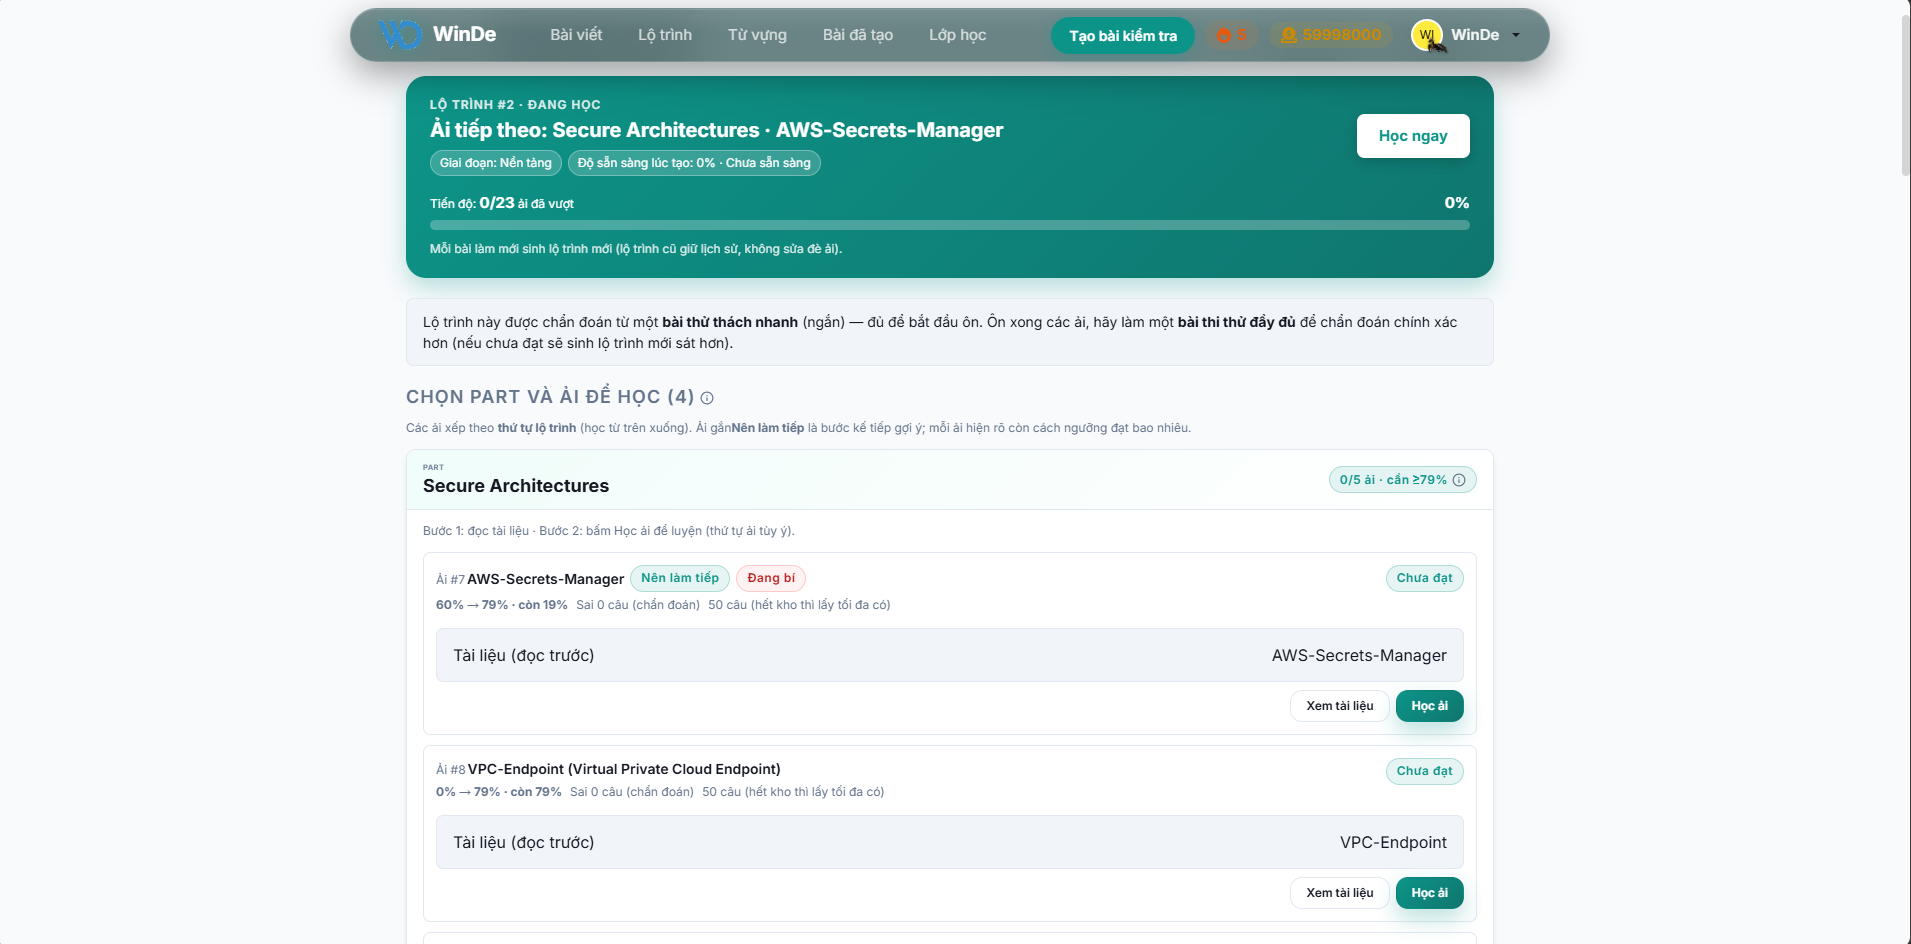
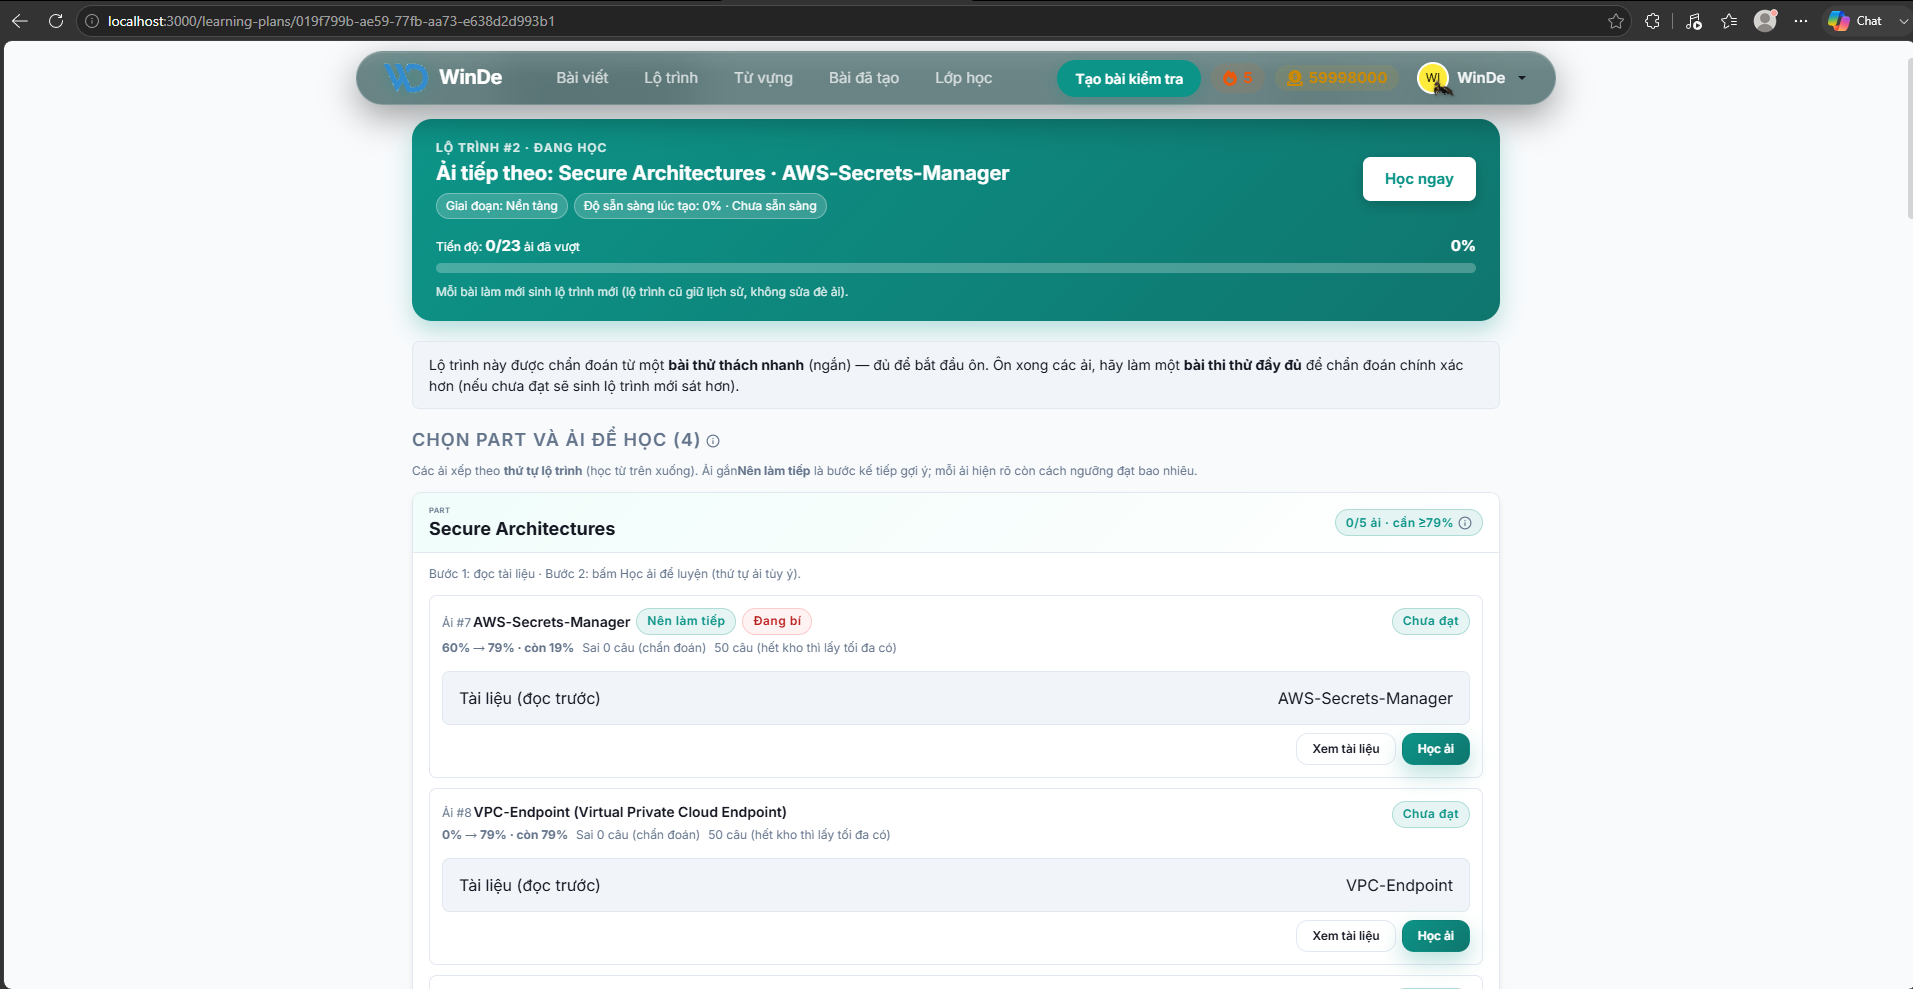
refactor: simplify DeviceMockup component by removing keyboard representation; update styles for improved layout and visual consistency; enhance JourneySection content for clarity and engagement

diff --git a/frontend/src/features/landing/components/DeviceMockup/DeviceMockup.module.scss b/frontend/src/features/landing/components/DeviceMockup/DeviceMockup.module.scss
@@ -1,6 +1,6 @@
 .viewport {
   position: relative;
-  width: min(100%, 520px);
+  width: min(100%, 580px);
   margin-inline: auto;
   padding: 3% 3% 5%;
 }
@@ -23,16 +23,16 @@
   left: 50%;
   bottom: 2%;
   z-index: 1;
-  width: 78%;
-  height: 38px;
+  width: 72%;
+  height: 28px;
   transform: translateX(-50%);
   pointer-events: none;
   background: radial-gradient(
     ellipse at center,
-    rgba(4, 47, 46, 0.4),
+    rgba(4, 47, 46, 0.32),
     transparent 72%
   );
-  filter: blur(15px);
+  filter: blur(14px);
 }
 
 .laptop {
@@ -51,11 +51,11 @@
   }
 }
 
-/* ---- Màn hình (MacBook: viền nhôm mảnh, bezel đen) ---- */
+/* ---- Màn hình MacBook (viền nhôm mảnh, bezel đen) ---- */
 .screen {
   position: relative;
   padding: 2.4%;
-  border-radius: 18px 18px 6px 6px;
+  border-radius: 18px;
   background: linear-gradient(160deg, #202225 0%, #0a0a0c 100%);
   box-shadow:
     0 0 0 2px #c8ccd0,
@@ -92,9 +92,6 @@
   height: auto;
   object-fit: contain;
   object-position: top center;
-  image-rendering: auto;
-  -webkit-backface-visibility: hidden;
-  backface-visibility: hidden;
 }
 
 .glare {
@@ -118,72 +115,7 @@
   }
 }
 
-/* ---- Bàn phím phối cảnh (nghiêng ra sau, có phím + trackpad) ---- */
-.deck {
-  position: relative;
-  width: 100%;
-  margin-top: -0.5%;
-  padding: 12px 8% 16px;
-  transform-origin: top center;
-  transform: perspective(760px) rotateX(46deg);
-  border-radius: 3px 3px 16px 16px;
-  background: linear-gradient(180deg, #eef1f3 0%, #cfd4d9 42%, #a7adb4 100%);
-  box-shadow:
-    inset 0 1px 0 rgba(255, 255, 255, 0.7),
-    0 22px 26px rgba(4, 47, 46, 0.28);
-
-  /* Khe bản lề tối ở mép trên */
-  &::before {
-    content: '';
-    position: absolute;
-    top: 0;
-    left: 6%;
-    right: 6%;
-    height: 4px;
-    border-radius: 0 0 4px 4px;
-    background: linear-gradient(180deg, rgba(0, 0, 0, 0.45), transparent);
-  }
-}
-
-.keyboard {
-  display: flex;
-  flex-direction: column;
-  gap: 4px;
-}
-
-.keyRow {
-  display: flex;
-  gap: 4px;
-  justify-content: center;
-}
-
-.key {
-  flex: 1;
-  height: 13px;
-  border-radius: 3px;
-  background: linear-gradient(180deg, #3c4247 0%, #23282c 100%);
-  box-shadow:
-    0 1px 1px rgba(0, 0, 0, 0.35),
-    0 0 0 1px rgba(0, 0, 0, 0.2);
-
-  &.spacebar {
-    flex: 0 0 44%;
-  }
-}
-
-.trackpad {
-  display: block;
-  width: 40%;
-  height: 30px;
-  margin: 12px auto 0;
-  border-radius: 8px;
-  background: linear-gradient(180deg, #d3d7dc, #bcc1c7);
-  box-shadow:
-    inset 0 0 0 1px rgba(0, 0, 0, 0.1),
-    inset 0 2px 4px rgba(0, 0, 0, 0.06);
-}
-
-/* ---- Placeholder page (khi chưa gắn screenshot) ---- */
+/* ---- Placeholder page ---- */
 .browser {
   display: flex;
   flex-direction: column;

diff --git a/frontend/src/features/landing/components/DeviceMockup/DeviceMockup.js b/frontend/src/features/landing/components/DeviceMockup/DeviceMockup.js
@@ -4,11 +4,6 @@ import styles from './DeviceMockup.module.scss';
 
 const cx = classNames.bind(styles);
 
-// Số phím mỗi hàng của bàn phím (chỉ để dựng hình).
-const KEY_ROWS = [13, 13, 13, 12];
-
-// On-brand placeholder page shown inside the screen until a real
-// website screenshot is passed via the `src` prop.
 function BrowserPlaceholder() {
   return (
     <div className={cx('browser')} aria-hidden="true">
@@ -40,8 +35,8 @@ function BrowserPlaceholder() {
 }
 
 /**
- * Khung MacBook mở (màn hình + bàn phím phối cảnh). Truyền `src` là ảnh chụp
- * website để hiển thị trong màn hình; bỏ trống sẽ dùng placeholder theo brand.
+ * Khung MacBook (chỉ màn hình). Truyền `src` để hiện screenshot;
+ * bỏ trống dùng placeholder brand.
  */
 export default function DeviceMockup({src, alt = '', className}) {
   const [imgFailed, setImgFailed] = useState(false);
@@ -68,22 +63,6 @@ export default function DeviceMockup({src, alt = '', className}) {
             )}
             <span className={cx('glare', {soft: showImg})} aria-hidden="true" />
           </div>
-        </div>
-
-        <div className={cx('deck')} aria-hidden="true">
-          <div className={cx('keyboard')}>
-            {KEY_ROWS.map((n, r) => (
-              <div key={r} className={cx('keyRow')}>
-                {Array.from({length: n}).map((_, i) => (
-                  <span key={i} className={cx('key')} />
-                ))}
-              </div>
-            ))}
-            <div className={cx('keyRow')}>
-              <span className={cx('key', 'spacebar')} />
-            </div>
-          </div>
-          <span className={cx('trackpad')} />
         </div>
       </div>
     </div>

diff --git a/frontend/src/features/landing/components/JourneySection/JourneySection.js b/frontend/src/features/landing/components/JourneySection/JourneySection.js
@@ -11,7 +11,7 @@ const steps = [
     id: 'try',
     index: '01',
     title: 'Làm bài thử',
-    text: 'Bài ngắn, đủ để lộ điểm yếu — không cần ngồi cả buổi.',
+    text: 'Bài ngắn, đủ để lộ điểm yếu — không cần ngồi cả buổi. Chúng tôi thiết kế các bài đánh giá nhanh nhưng chính xác, giúp bạn xác định lỗ hổng kiến thức ngay từ 15 phút đầu tiên.',
     hint: 'Có timer · như thi thật',
     shot: images.quickImage,
     shotAlt: 'Màn hình làm đề trên WinDe',
@@ -20,7 +20,7 @@ const steps = [
     id: 'see',
     index: '02',
     title: 'Nhận chẩn đoán',
-    text: 'Biết chỗ nào đang kéo điểm, ưu tiên sửa phần nào trước.',
+    text: 'Biết chỗ nào đang kéo điểm, ưu tiên sửa phần nào trước. Hệ thống phân tích sâu kết quả làm bài, hiển thị trực quan các nhóm kỹ năng yếu nhất cần được cải thiện ngay lập tức.',
     hint: 'Theo từng kỹ năng',
     shot: images.dignos,
     shotAlt: 'Trang chẩn đoán năng lực trên WinDe',
@@ -29,7 +29,7 @@ const steps = [
     id: 'path',
     index: '03',
     title: 'Luyện theo kế hoạch',
-    text: 'Nhận lộ trình cá nhân: làm đúng thứ tự, đúng chỗ còn yếu.',
+    text: 'Nhận lộ trình cá nhân: làm đúng thứ tự, đúng chỗ còn yếu. Không còn bối rối giữa hàng ngàn tài liệu, WinDe tự động sắp xếp những gì quan trọng nhất vào lịch học hàng ngày của bạn.',
     hint: 'Task đúng chỗ hổng',
     shot: images.learningPlan,
     shotAlt: 'Trang lộ trình cá nhân trên WinDe',

diff --git a/frontend/src/features/landing/components/JourneySection/JourneySection.module.scss b/frontend/src/features/landing/components/JourneySection/JourneySection.module.scss
@@ -62,8 +62,13 @@
   }
 }
 
-/* Đảo cột cho hàng chẵn (chỉ trên desktop); mobile luôn chữ trước, laptop sau. */
+/* Đảo cột cho hàng chẵn (chỉ trên desktop); mobile luôn chữ trước, laptop sau.
+   Đảo luôn tỉ lệ cột để máy ở giữa vẫn rộng bằng máy trên/dưới. */
 @media (min-width: 861px) {
+  .reverse {
+    grid-template-columns: minmax(0, 1.1fr) minmax(0, 0.9fr);
+  }
+
   .reverse .rowText {
     order: 2;
   }
